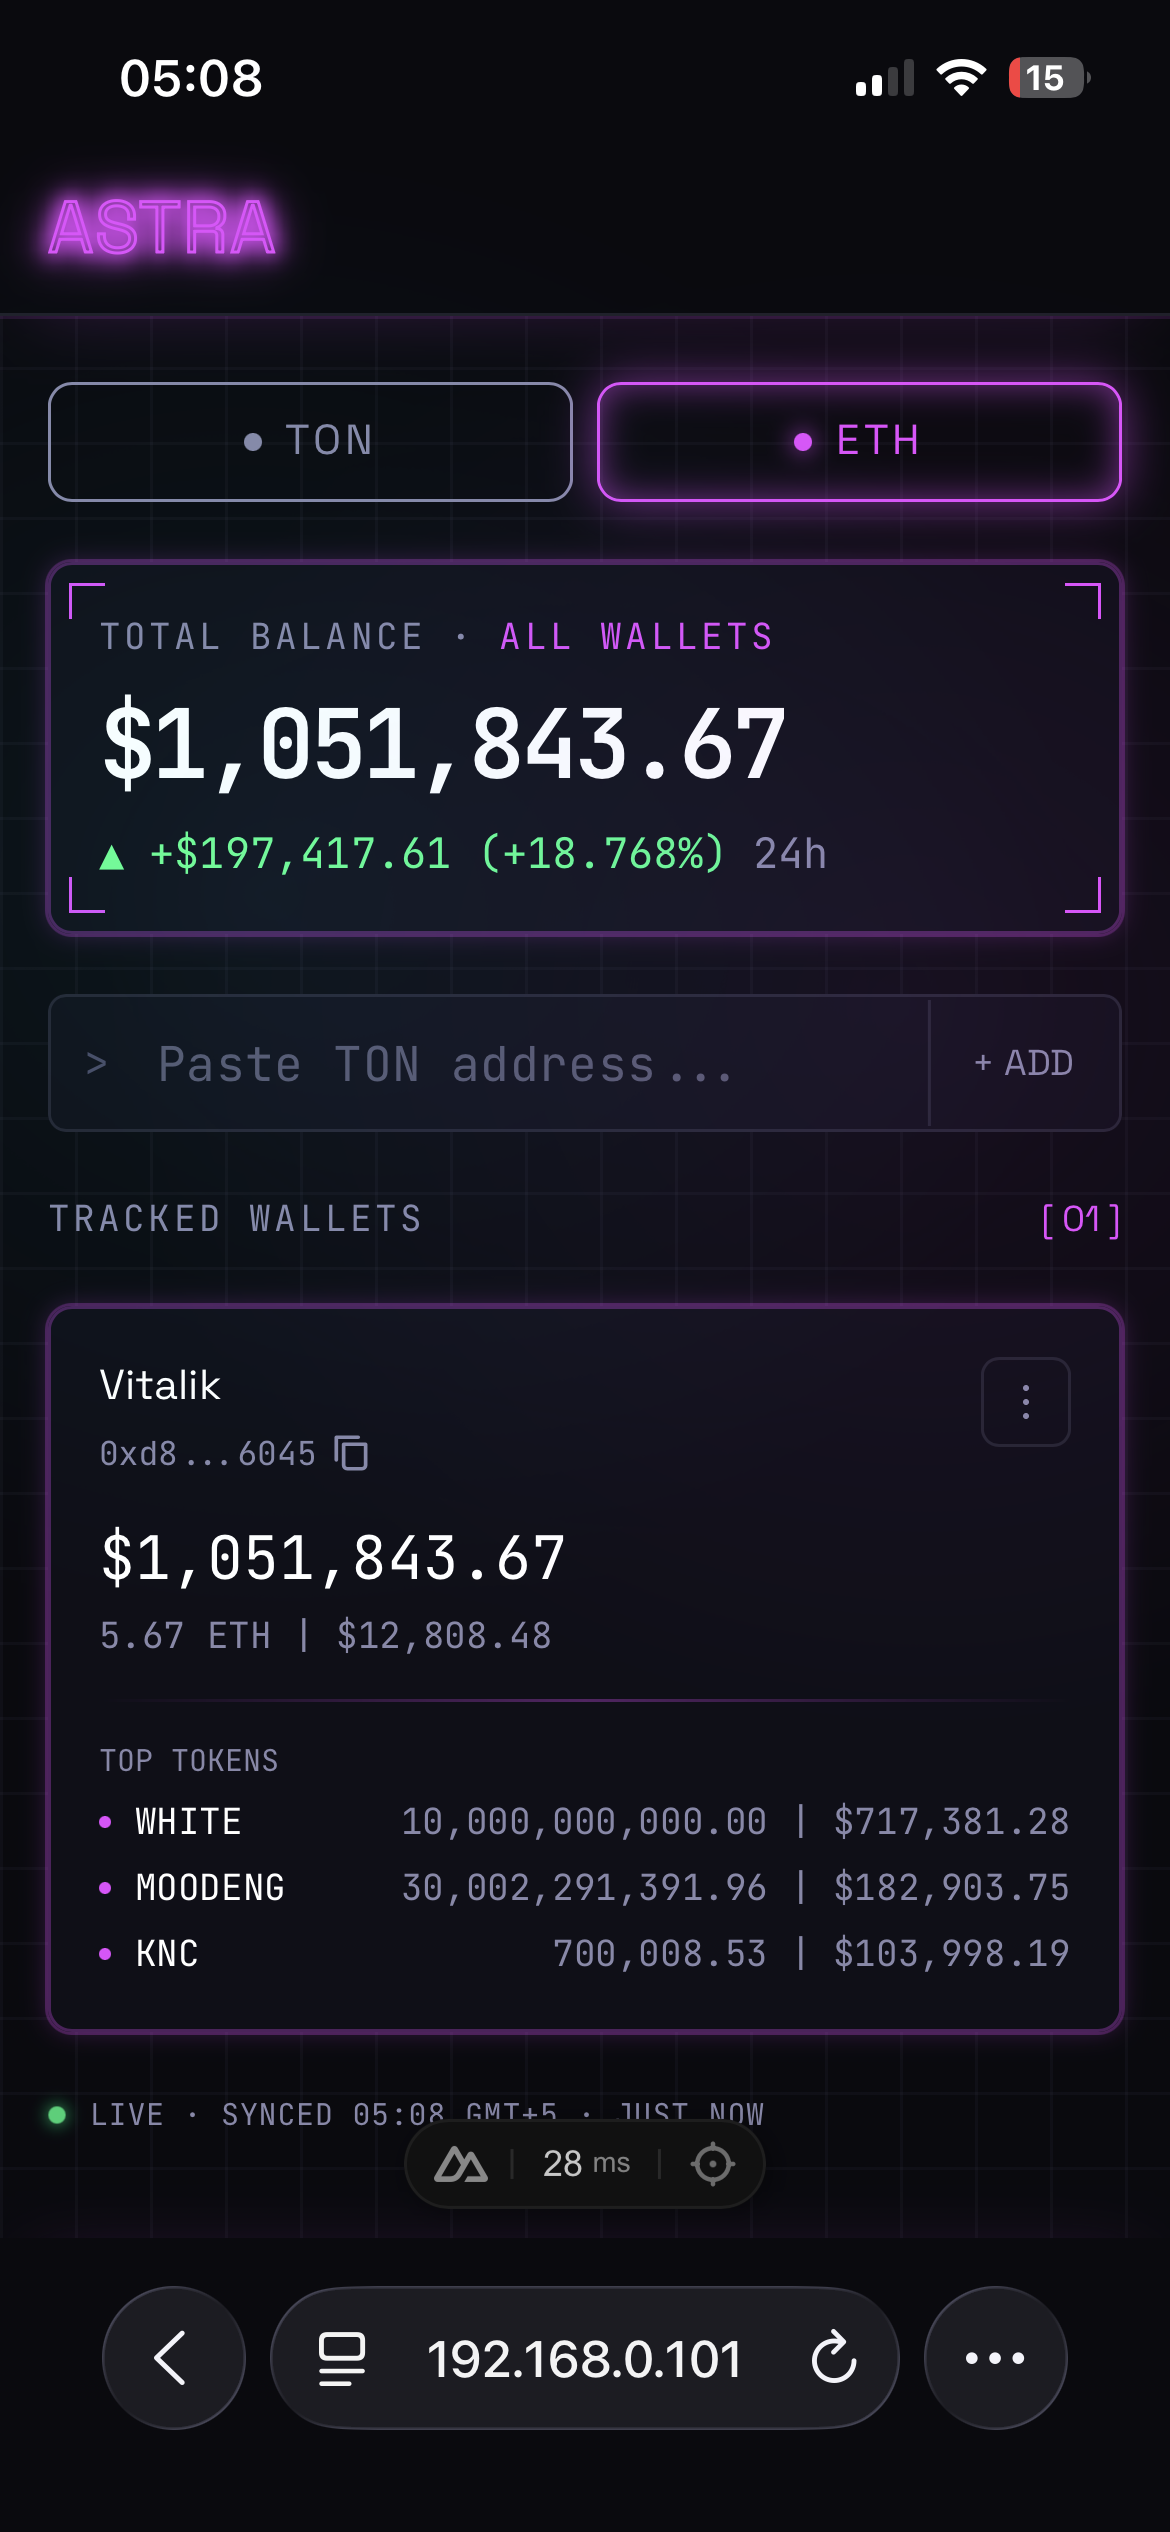
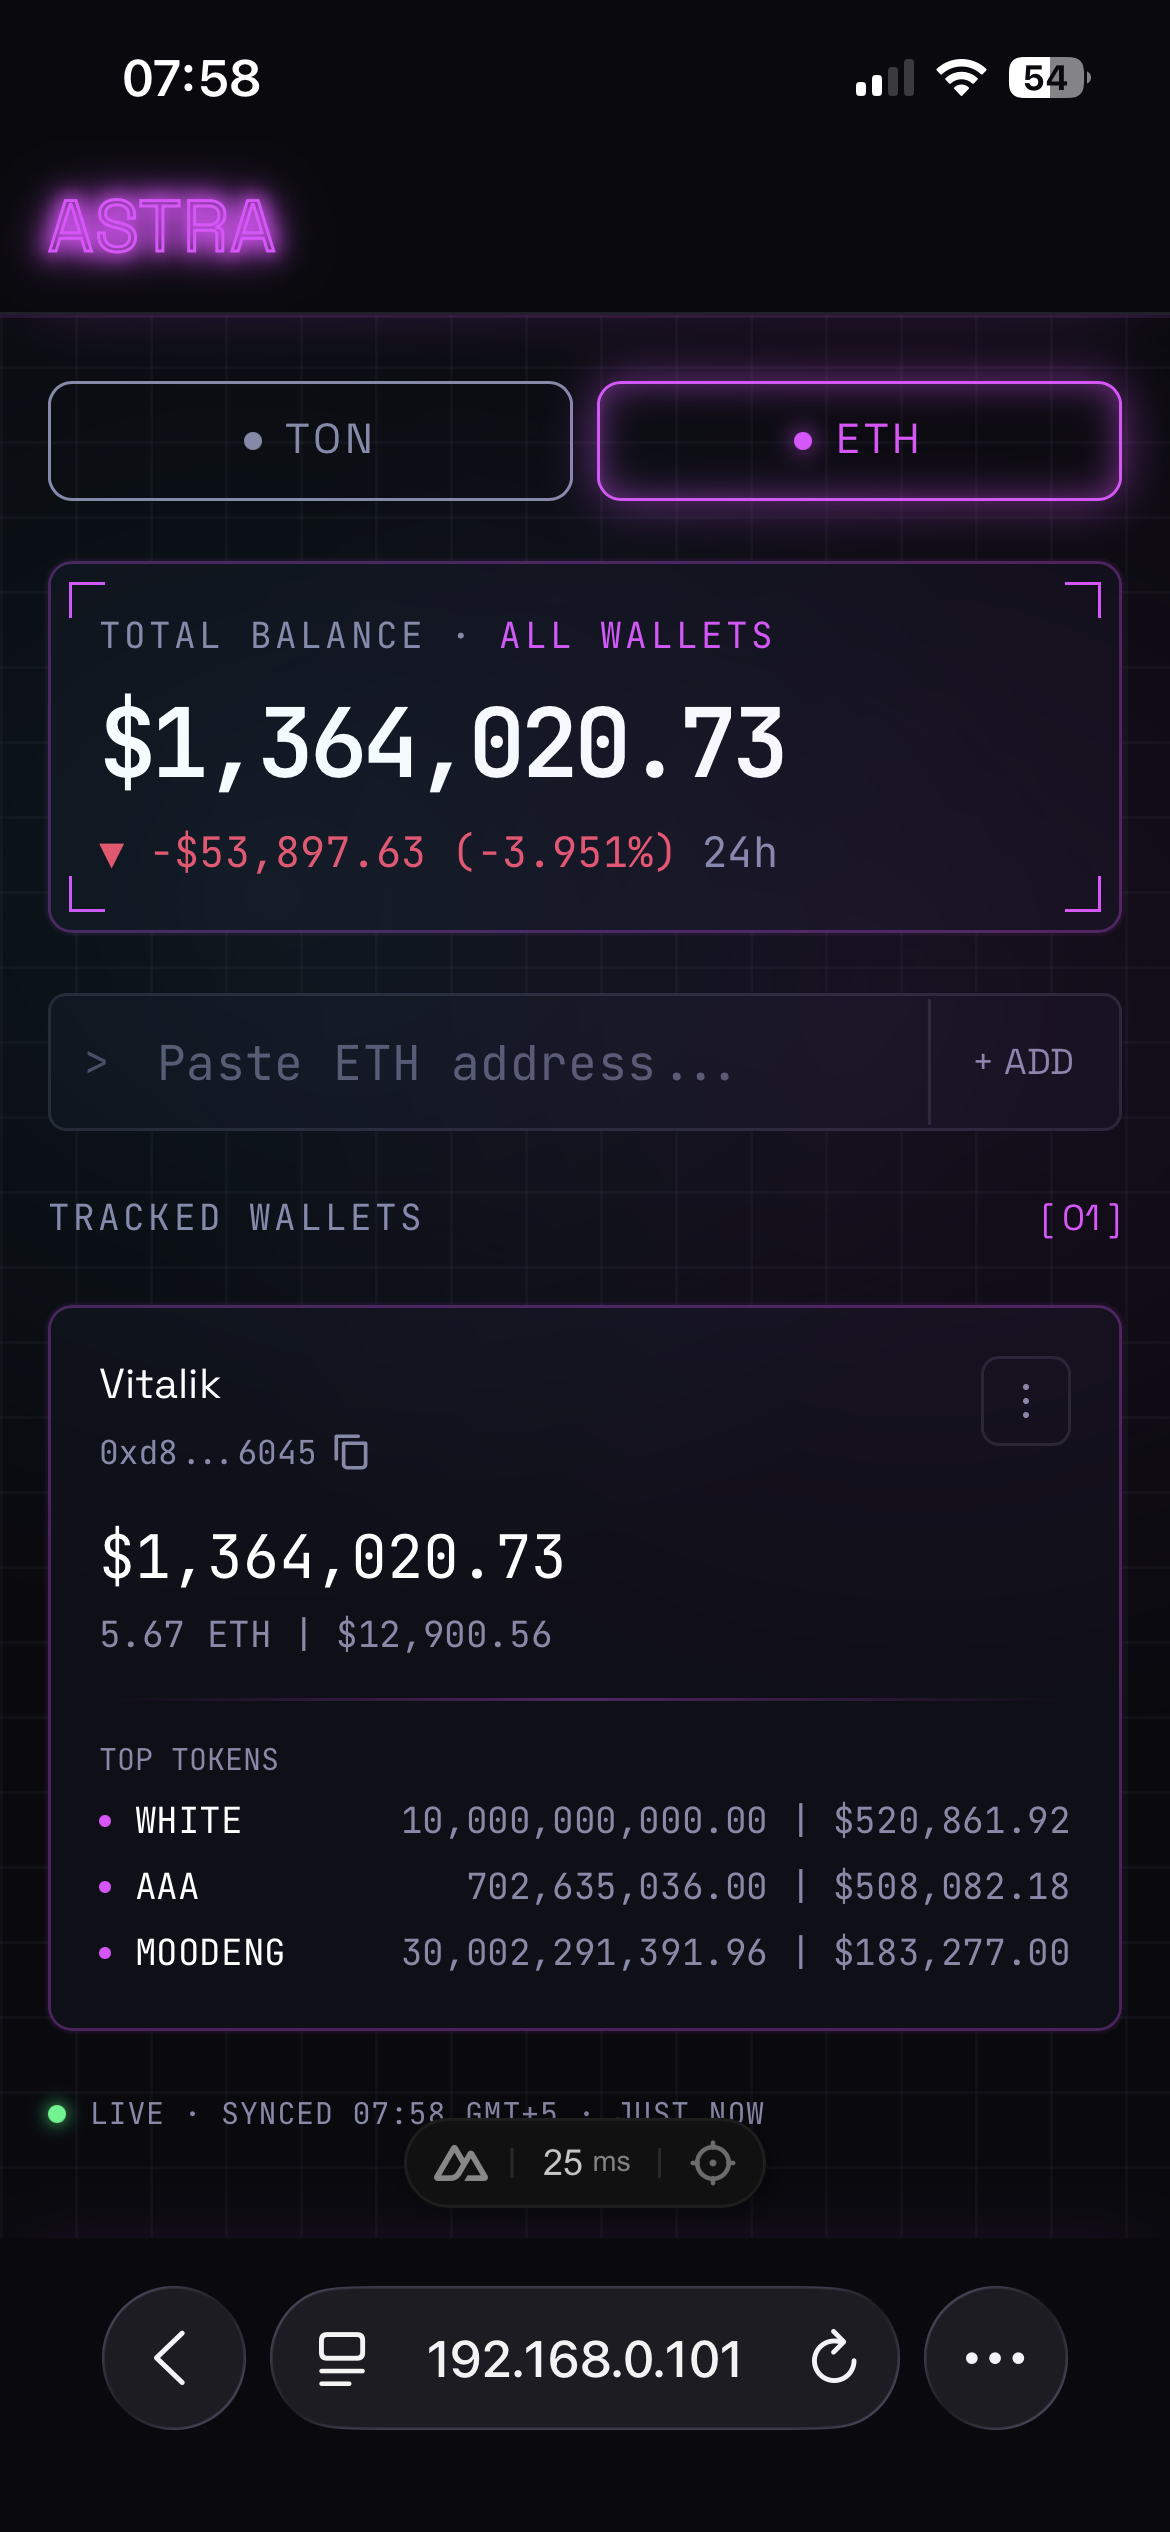
docs: update Readme.md, update screenshot

diff --git a/README.md b/README.md
@@ -167,12 +167,17 @@ test/
 ## Testing
 
 ```bash
-npm test                          # all 127 tests
+npm test                          # all unit + nuxt tests (vitest)
 npx vitest run --project unit     # unit only (42 tests, ~1s)
 npx vitest run --project nuxt     # nuxt env tests (85 tests)
+
+npm run test:e2e                  # Playwright e2e (requires dev server running)
+npm run test:e2e:ui               # Playwright UI mode
 ```
 
-GitHub Actions runs the full suite on push/PR to `main`.
+Unit and nuxt tests live in `*/test/` subfolders next to the code they cover. E2e tests live in `tests/e2e/` — all external API calls are mocked via `page.route()`, so no real API keys are needed to run them.
+
+GitHub Actions runs the full suite on push/PR to `main`: vitest first, then Playwright with browser install.
 
 ---
 
@@ -184,7 +189,9 @@ GitHub Actions runs the full suite on push/PR to `main`.
 | `npm run build` | Type-check + production build |
 | `npm run preview` | Preview the production build locally |
 | `npm run generate` | Static site generation |
-| `npm test` | Run all 127 vitest tests |
+| `npm test` | Run all vitest tests (unit + nuxt) |
+| `npm run test:e2e` | Run Playwright e2e tests |
+| `npm run test:e2e:ui` | Playwright UI mode |
 
 Linting and formatting run automatically on pre-commit via `lint-staged` + `husky`. To run manually:
 
